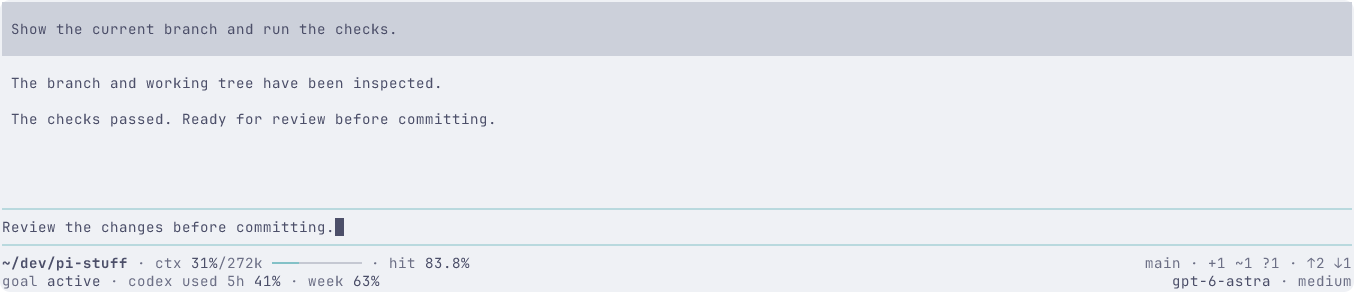
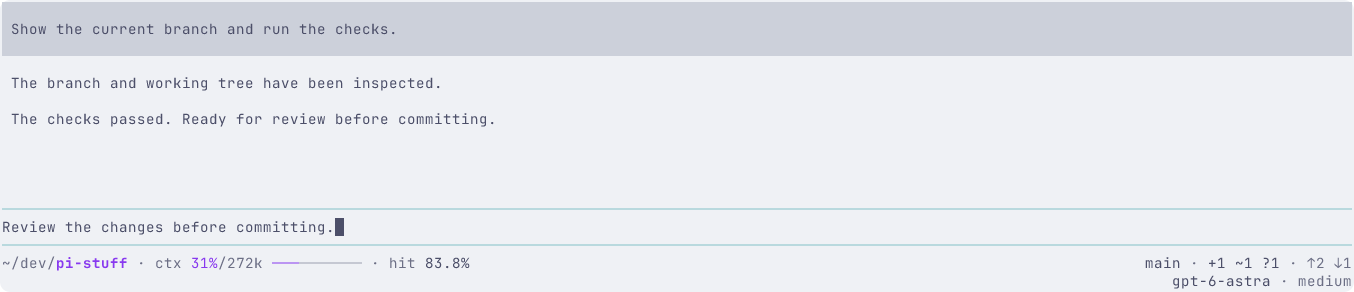
refactor(prototype): focus statusline colors on core fields

Changed region(s): [[0.0, 0.8938, 0.2792, 0.9863], [0.0, 0.863, 0.0931, 0.9247], [0.1241, 0.8938, 0.1551, 0.9247]]

diff --git a/prototypes/statusline/footer.ts b/prototypes/statusline/footer.ts
@@ -8,7 +8,6 @@ export interface FooterState {
   model: string;
   thinking: string;
   completed: number;
-  running: boolean;
 }
 
 interface Field {
@@ -59,6 +58,10 @@ export function renderFooter(
     state.scenario === 'long'
       ? '~/dev/研究工具/pi-stuff-statusline'
       : '~/dev/pi-stuff';
+  const basename = project.lastIndexOf('/') + 1;
+  const directory =
+    theme.fg('muted', project.slice(0, basename)) +
+    theme.fg('accent', theme.bold(project.slice(basename)));
   const branch =
     state.scenario === 'long'
       ? 'codex/statusline-responsive-prototype'
@@ -66,13 +69,13 @@ export function renderFooter(
   const worktree =
     state.scenario === 'base'
       ? theme.fg('muted', 'clean')
-      : theme.fg('muted', '+1 ~1 ') +
+      : theme.fg('text', '+1 ~1 ') +
         (state.scenario === 'long'
           ? theme.fg('error', '!1')
-          : theme.fg('muted', '?1'));
+          : theme.fg('text', '?1'));
   const divergence =
     state.scenario === 'base' ? '' : theme.fg('muted', '↑2 ↓1');
-  const git = [theme.fg('muted', branch), worktree, divergence]
+  const git = [theme.fg('text', branch), worktree, divergence]
     .filter(Boolean)
     .join(separator);
   const required = (text: string, side: Field['side']): Field => ({
@@ -84,11 +87,11 @@ export function renderFooter(
   const second: Field[] = [];
   const identitiesFit = visibleWidth(project) + 2 + visibleWidth(git) <= width;
   if (identitiesFit) {
-    first.push(required(theme.bold(project), 'left'), required(git, 'right'));
+    first.push(required(directory, 'left'), required(git, 'right'));
   } else if (visibleWidth(project) + 2 + visibleWidth(branch) <= width) {
     first.push(
-      required(theme.bold(project), 'left'),
-      required(theme.fg('muted', branch), 'right'),
+      required(directory, 'left'),
+      required(theme.fg('text', branch), 'right'),
     );
     second.push(
       required([worktree, divergence].filter(Boolean).join(separator), 'left'),
@@ -96,7 +99,7 @@ export function renderFooter(
   } else {
     const pathWidth = Math.max(0, width - visibleWidth(worktree) - 2);
     first.push(
-      required(theme.bold(truncateToWidth(project, pathWidth, '…')), 'left'),
+      required(truncateToWidth(directory, pathWidth, '…'), 'left'),
       required(worktree, 'right'),
     );
     const branchWidth = Math.max(
@@ -105,7 +108,7 @@ export function renderFooter(
     );
     second.push(
       required(
-        theme.fg('muted', truncateToWidth(branch, branchWidth, '…')),
+        theme.fg('text', truncateToWidth(branch, branchWidth, '…')),
         'left',
       ),
     );
@@ -115,25 +118,14 @@ export function renderFooter(
   const context = Math.min(100, 30 + state.completed);
   const filled = Math.round(context / 10);
   const meter =
-    theme.fg('thinkingMedium', '━'.repeat(filled)) +
+    theme.fg('accent', '━'.repeat(filled)) +
     theme.fg('borderMuted', '━'.repeat(10 - filled));
   // Keep the requested context/capacity/hit block intact immediately after dir.
   first.push({
-    text: `${theme.fg('muted', 'ctx')} ${theme.fg('text', `${context}%`)}${theme.fg('muted', '/272k')} ${meter}${separator}${theme.fg('muted', 'hit')} ${theme.fg('text', '83.8%')}`,
+    text: `${theme.fg('muted', 'ctx')} ${theme.fg('accent', `${context}%`)}${theme.fg('muted', '/272k')} ${meter}${separator}${theme.fg('muted', 'hit')} ${theme.fg('text', '83.8%')}`,
     side: 'left',
     priority: 90,
   });
-  if (identitiesFit && state.scenario !== 'base') {
-    second.push({
-      text: [
-        `${theme.fg('muted', 'goal')} ${theme.fg('text', state.running ? 'running' : 'active')}`,
-        `${theme.fg('muted', 'codex used 5h')} ${theme.fg('text', '41%')}`,
-        `${theme.fg('muted', 'week')} ${theme.fg('text', '63%')}`,
-      ].join(separator),
-      side: 'left',
-      priority: 10,
-    });
-  }
   // If the branch occupies the second row, it owns that row's right-hand budget too.
   if (second.every(field => field.side !== 'right')) {
     second.push(

diff --git a/prototypes/statusline/extension.ts b/prototypes/statusline/extension.ts
@@ -11,7 +11,6 @@ export default function statuslinePrototype(pi: ExtensionAPI): void {
     Schema.Literals(['base', 'extended', 'long']),
   )(process.env.PI_STATUSLINE_SCENARIO);
   let completed = 0;
-  let running = false;
   let redraw = () => {};
 
   pi.registerProvider('statusline-sample', {
@@ -112,7 +111,6 @@ export default function statuslinePrototype(pi: ExtensionAPI): void {
           renderFooter(width, theme, {
             scenario,
             completed,
-            running,
             model: ctx.model?.id ?? 'gpt-6-astra',
             thinking: pi.getThinkingLevel(),
           }),
@@ -124,10 +122,6 @@ export default function statuslinePrototype(pi: ExtensionAPI): void {
     });
     pi.sendUserMessage('Show the current branch and run the checks.');
   });
-  pi.on('agent_start', () => {
-    running = true;
-    redraw();
-  });
   pi.on('message_end', event => {
     if (
       event.message.role === 'assistant' &&
@@ -136,7 +130,6 @@ export default function statuslinePrototype(pi: ExtensionAPI): void {
       completed += 1;
   });
   pi.on('agent_end', () => {
-    running = false;
     redraw();
   });
 }

diff --git a/prototypes/statusline/capture.ts b/prototypes/statusline/capture.ts
@@ -71,15 +71,7 @@ async function capture(session: Session, name: string): Promise<string> {
     /R620k|W8k|est \$|openai-codex|auto|window/u,
     'Routine detail fields do not return at wider widths',
   );
-  if (
-    footer.join(' ').includes('goal') ||
-    footer.join(' ').includes('codex used')
-  ) {
-    assert.ok(
-      footer[1]?.includes('goal active · codex used 5h 41% · week 63%'),
-      'Extension group must be complete, not a clipped resize frame',
-    );
-  }
+  assert.doesNotMatch(footer.join(' '), /goal|codex used|week/u);
   for (const line of footer) {
     assert.equal(
       visibleWidth(line),

diff --git a/prototypes/statusline/README.md b/prototypes/statusline/README.md
@@ -12,7 +12,7 @@ From the prototype worktree, with the repository's pinned dependencies installed
 PI_TEST_HOST=/opt/bin/pi bun run tui run pi-statusline --host opentui -- bun prototypes/statusline/run.ts --theme catppuccin-latte --scenario extended
 ```
 
-Omit `PI_TEST_HOST` to use the installed Pi 0.85.1 CLI under Bun. Choose `catppuccin-mocha` for dark mode. Scenarios: `base` has a clean branch; `extended` adds changes, goal and quota; `long` uses a full long branch, a directory containing wide characters and a conflict. Scenario selection stays outside the evaluated UI.
+Omit `PI_TEST_HOST` to use the installed Pi 0.85.1 CLI under Bun. Choose `catppuccin-mocha` for dark mode. Scenarios: `base` has a clean branch; `extended` adds working-tree changes and divergence; `long` uses a full long branch, a directory containing wide characters and a conflict. Scenario selection stays outside the evaluated UI.
 
 Use Pi's native editor, Enter to submit and Esc to cancel the two-second sample response. Successful responses advance the sample usage. Resize the foreground terminal itself: Terminal Control 1.2.1 `run` follows its outer PTY, not CLI `resize`. An already-running instance can load the revised footer through Pi's `/reload` command.
 
@@ -21,7 +21,7 @@ bun run tui show pi-statusline
 bun run tui stop pi-statusline
 ```
 
-中文: 在原型 worktree 中执行上述命令. 省略 `PI_TEST_HOST` 后使用安装的 Pi 0.85.1 CLI; 暗色主题选 `catppuccin-mocha`. `base` 是干净分支, `extended` 加入改动、goal 和额度, `long` 包含长分支、中文目录与冲突. 原生编辑器支持输入、Enter 提交、Esc 取消约两秒的样例回复. 成功回复增加统计. 缩放时调整前台终端本身; 已运行的实例可以用 `/reload` 载入修改.
+中文: 在原型 worktree 中执行上述命令. 省略 `PI_TEST_HOST` 后使用安装的 Pi 0.85.1 CLI; 暗色主题选 `catppuccin-mocha`. `base` 是干净分支, `extended` 加入工作区改动与提交领先/落后, `long` 包含长分支、中文目录与冲突. 原生编辑器支持输入、Enter 提交、Esc 取消约两秒的样例回复. 成功回复增加统计. 缩放时调整前台终端本身; 已运行的实例可以用 `/reload` 载入修改.
 
 ## Layout and extension placement
 
@@ -30,27 +30,27 @@ The footer uses two rows with left and right anchors:
 | Row    | Left zone                                  | Right zone                                     |
 | ------ | ------------------------------------------ | ---------------------------------------------- |
 | First  | Full directory, context/capacity/hit block | Branch, working-tree counts, commit divergence |
-| Second | Third-party status                         | Model, thinking effort                         |
+| Second | Reserved for future third-party status     | Model, thinking effort                         |
 
-Adjacent fields in each zone use `·`. One elastic gap separates the two zones and puts their outer fields against the terminal edges. Compound values such as `+1 ~1 ?1` remain one Git field with ordinary internal spaces. No alignment padding appears within a zone. Authored labels are lowercase, including `codex`; actual directory, branch, model and external values retain their original casing.
+Adjacent fields in each zone use `·`. One elastic gap separates the two zones and puts their outer fields against the terminal edges. Compound values such as `+1 ~1 ?1` remain one Git field with ordinary internal spaces. No alignment padding appears within a zone. Authored labels are lowercase; actual directory, branch, model and external values retain their original casing.
 
-Context follows the directory with the exact format `ctx 31%/272k ━━━━━━━━━━ · hit 83.8%`. Capacity attaches directly to the percentage, with no spaces around the slash; the meter follows after one space. Capacity is part of ctx; there is no separate window field. The complete context/capacity/hit block is shown or hidden together. Third-party statuses remain in the lower-left zone, now starting at its left edge. The goal/quota sample is an optional atomic group. It never takes over the Git or model anchors and is hidden first when space runs out. A future integration can pass additional complete status fields into this zone; this prototype does not add an extension API or poll real providers.
+Context follows the directory with the exact format `ctx 31%/272k ━━━━━━━━━━ · hit 83.8%`. Capacity attaches directly to the percentage, with no spaces around the slash; the meter follows after one space. Capacity is part of ctx; there is no separate window field. The complete context/capacity/hit block is shown or hidden together. The lower-left zone is available for future third-party statuses; no goal or quota samples are displayed. A future integration can pass additional complete status fields into this zone; this prototype does not add an extension API or poll real providers.
 
-On row one, optional context yields to full directory/Git. On row two, extension status and then thinking effort yield before the model. Fields disappear whole, without abbreviations or smaller-field backfill. At 50 columns, the ordinary sample retains directory, complete Git state and model/effort, hiding the context block; it returns at 80 columns. Visible context always retains the capacity and ten continuous meter characters.
+On row one, optional context yields to full directory/Git. On row two, thinking effort yields before the model. Fields disappear whole, without abbreviations or smaller-field backfill. At 50 columns, the ordinary sample retains directory, complete Git state and model/effort, hiding the context block; it returns at 80 columns. Visible context always retains the capacity and ten continuous meter characters.
 
 For long identities, directory and branch retain separate left/right anchors on row one when possible, moving working-tree/divergence fields to row two. If the names themselves cannot share a row, row one becomes directory/worktree and row two becomes branch/divergence. At 50 columns this long sample hides runtime metrics entirely so all identity and Git state survives. Individual names beyond the physical viewport use an ellipsis; there is no third row or overflow counter.
 
-Context and cache-hit percentages, third-party state and quota values use the theme's normal text color. Labels and context capacity remain muted. All field separators use the same muted color. This hierarchy changes no text, spacing, priority or width decisions.
+The project basename is bold in the theme accent, with its full parent path muted. Branch and nonzero working-tree counts use normal text; clean and divergence stay muted, with conflicts in error color. Context percentage and the filled meter share the accent; capacity, labels, separators and thinking effort stay muted. Cache-hit and model values use normal text. These colors preserve core text, spacing and width decisions.
 
 Ordinary Git states use neutral text; only conflicts use an error color. `clean` means no changes, `+1` staged, `~1` modified, `?1` untracked, `!1` conflicted, `↑2` ahead and `↓1` behind. Values are file counts and commit divergence, not changed-line counts. The fixtures do not cover every operation such as rebase or detached HEAD. Routine token/cache-read-write details, costs, provider and auto labels remain absent from this reduced layout.
 
-中文: Footer 固定双行、左右分区. 第一行左侧完整目录后是ctx/容量/hit整体, 右侧分支、工作区计数与提交领先/落后. 第二行左侧第三方状态, 右侧模型与思考强度. 同一区域内相邻字段用 `·` 分隔, 两个区域之间仅一个弹性间隙, 区域内部不填充空白. `+1 ~1 ?1` 等复合计数仍是一个 Git 字段, 内部使用普通空格. 自定义标签全部小写, 包括 `codex`; 实际目录、分支、模型和外部值保留原始大小写.
+中文: Footer 固定双行、左右分区. 第一行左侧完整目录后是ctx/容量/hit整体, 右侧分支、工作区计数与提交领先/落后. 第二行左侧留给未来第三方状态, 当前不显示样例, 右侧模型与思考强度. 同一区域内相邻字段用 `·` 分隔, 两个区域之间仅一个弹性间隙, 区域内部不填充空白. `+1 ~1 ?1` 等复合计数仍是一个 Git 字段, 内部使用普通空格. 自定义标签全部小写; 实际目录、分支、模型和外部值保留原始大小写.
 
-中文: ctx紧随目录, 精确样式为 `ctx 31%/272k ━━━━━━━━━━ · hit 83.8%`, 容量直接接在百分比后, 斜杠两侧不加空格, 进度条与数值之间一个空格. 容量合入ctx, 不再有独立window字段; ctx/容量/hit整块显隐. 第三方字段仍在左下, 现在从该区域最左端开始. goal/额度作为一个可选整体, 不占Git/模型锚点. 第一行ctx整体让位于完整目录/Git; 第二行扩展、思考强度先于模型退让. 不简写、不零碎回填. 普通50列保留目录、完整Git和模型/强度, 隐藏ctx块; 80列恢复. 显示时容量与十字符连续进度条均完整保留. 本原型不增加扩展API或真实数据读取.
+中文: ctx紧随目录, 精确样式为 `ctx 31%/272k ━━━━━━━━━━ · hit 83.8%`, 容量直接接在百分比后, 斜杠两侧不加空格, 进度条与数值之间一个空格. 容量合入ctx, 不再有独立window字段; ctx/容量/hit整块显隐. 左下区域保留给未来第三方字段, 当前不显示 goal/额度样例. 第一行ctx整体让位于完整目录/Git; 第二行思考强度先于模型退让. 不简写、不零碎回填. 普通50列保留目录、完整Git和模型/强度, 隐藏ctx块; 80列恢复. 显示时容量与十字符连续进度条均完整保留. 本原型不增加扩展API或真实数据读取.
 
 中文: 长身份优先在第一行左右保留目录与分支, 把工作区/提交计数移到第二行. 两个名称也放不下时, 第一行变为左目录/右工作区计数, 第二行为左分支/右领先落后. 该长样例在 50 列隐藏全部运行统计, 保住完整身份和 Git 状态. 单项名称超过物理宽度才使用省略号, 不加第三行或溢出计数. 普通 Git 状态为中性色, 冲突使用错误色. `clean` 为干净, `+1` 暂存、`~1` 修改、`?1` 未跟踪、`!1` 冲突、`↑2` 领先、`↓1` 落后; 数字是文件数与提交数, 不是代码行数. 样例未覆盖 rebase/detached HEAD 等所有操作. token/缓存读写明细、费用、provider和auto继续不常驻.
 
-中文: ctx/hit 百分比、第三方状态和额度数值使用主题正常文字色, 标签和上下文容量保留弱色. 所有字段圆点统一使用弱色. 只调整明暗层级, 不改变文本、间距、优先级或宽度策略.
+中文: 项目名使用主题强调色并加粗, 完整父目录弱化. 分支与非零工作区计数使用正常文字色, clean 和领先/落后计数保持弱色, 冲突使用错误色. ctx 百分比和已用进度条使用同一强调色, 容量、标签、圆点和思考强度弱化, hit 与模型使用正常文字色. 核心文本、间距及宽度策略保持不变.
 
 ## Evidence and limits
 
@@ -59,7 +59,7 @@ The PNGs are actual headless Terminal Control captures at 150/100/80/50 columns 
 ![Light, extended, 150 columns](captures/catppuccin-latte-extended-150.png)
 ![Dark, long directory and branch, 50 columns](captures/catppuccin-mocha-long-50.png)
 
-The one-shot driver covers each theme/scenario at 150 → 100 → 80 → 50 → 150, then editing, submit, cancellation and resubmit. Assertions check two rows, full sample identities and Git states at every width, the exact context/capacity/hit block immediately after the directory when it fits, left/right alignment, dot separators, lowercase sample labels, whole extension groups, absence of removed details and restoration. The driver waits for both right anchors and a complete runtime-row tail after resize, then captures a stable frame. It rejects partial extension values. See [verification.txt](captures/verification.txt).
+The one-shot driver covers each theme/scenario at 150 → 100 → 80 → 50 → 150, then editing, submit, cancellation and resubmit. Assertions check two rows, full sample identities and Git states at every width, the exact context/capacity/hit block immediately after the directory when it fits, left/right alignment, dot separators, lowercase sample labels, absence of future third-party samples, absence of removed details and restoration. The driver waits for both right anchors and a complete runtime-row tail after resize, then captures a stable frame. See [verification.txt](captures/verification.txt).
 
 ```sh
 PI_TEST_HOST=/opt/bin/pi bun prototypes/statusline/capture.ts /tmp/pi-statusline-captures
@@ -67,9 +67,9 @@ bun run check
 git diff --check
 ```
 
-Environment: Bun 1.4.0, compiled Pi 0.87.1, Terminal Control 1.2.1, repository API declarations at Pi 0.85.1. Temporary settings/sessions are cleaned up. The local provider and all displayed directory/Git/account/usage data are deterministic samples; no Git status, account quota, real model request or check command is executed. The native editor, message rendering, streaming, cancellation and resize are real Pi behavior. The provider uses Pi's [documented extension API](https://github.com/earendil-works/pi/blob/v0.85.1/packages/coding-agent/docs/custom-provider.md).
+Environment: Bun 1.4.0, compiled Pi 0.87.1, Terminal Control 1.2.1, repository API declarations at Pi 0.85.1. Temporary settings/sessions are cleaned up. The local provider and all displayed directory/Git/usage data are deterministic samples; no Git status, account quota, real model request or check command is executed. The native editor, message rendering, streaming, cancellation and resize are real Pi behavior. The provider uses Pi's [documented extension API](https://github.com/earendil-works/pi/blob/v0.85.1/packages/coding-agent/docs/custom-provider.md).
 
-中文: PNG 来自真实无头 Terminal Control, 包含完整 16 行终端视口, 覆盖明暗主题和 150/100/80/50 列, 字体栈见上. 它们不是裁剪的设计图或原生 Ghostty/合成器截图. 一次性驱动验证各场景的缩窄与恢复、编辑、提交、取消和再次提交, 检查双行、完整目录/分支/Git 计数、可容纳时紧随目录且格式精确的ctx/容量/hit整体、左右对齐、圆点分隔、小写样例标签、扩展组整体显隐、无已移除明细及恢复结果. 缩放后等待两个右侧锚点和完整行尾再抓稳定帧, 截断的扩展组会导致验证失败. 复现命令及版本见上. 临时设置/会话会清理. 所有目录、Git、账号与用量均为确定样例, 不查询真实状态、不调用模型或检查命令; 编辑器、消息、流式输出、取消和缩放使用原生 Pi.
+中文: PNG 来自真实无头 Terminal Control, 包含完整 16 行终端视口, 覆盖明暗主题和 150/100/80/50 列, 字体栈见上. 它们不是裁剪的设计图或原生 Ghostty/合成器截图. 一次性驱动验证各场景的缩窄与恢复、编辑、提交、取消和再次提交, 检查双行、完整目录/分支/Git 计数、可容纳时紧随目录且格式精确的ctx/容量/hit整体、左右对齐、圆点分隔、小写样例标签、不显示未来第三方样例、无已移除明细及恢复结果. 缩放后等待两个右侧锚点和完整行尾再抓稳定帧. 复现命令及版本见上. 临时设置/会话会清理. 所有目录、Git 与用量均为确定样例, 不查询真实状态、不调用模型或检查命令; 编辑器、消息、流式输出、取消和缩放使用原生 Pi.
 
 ## Tracking
 
